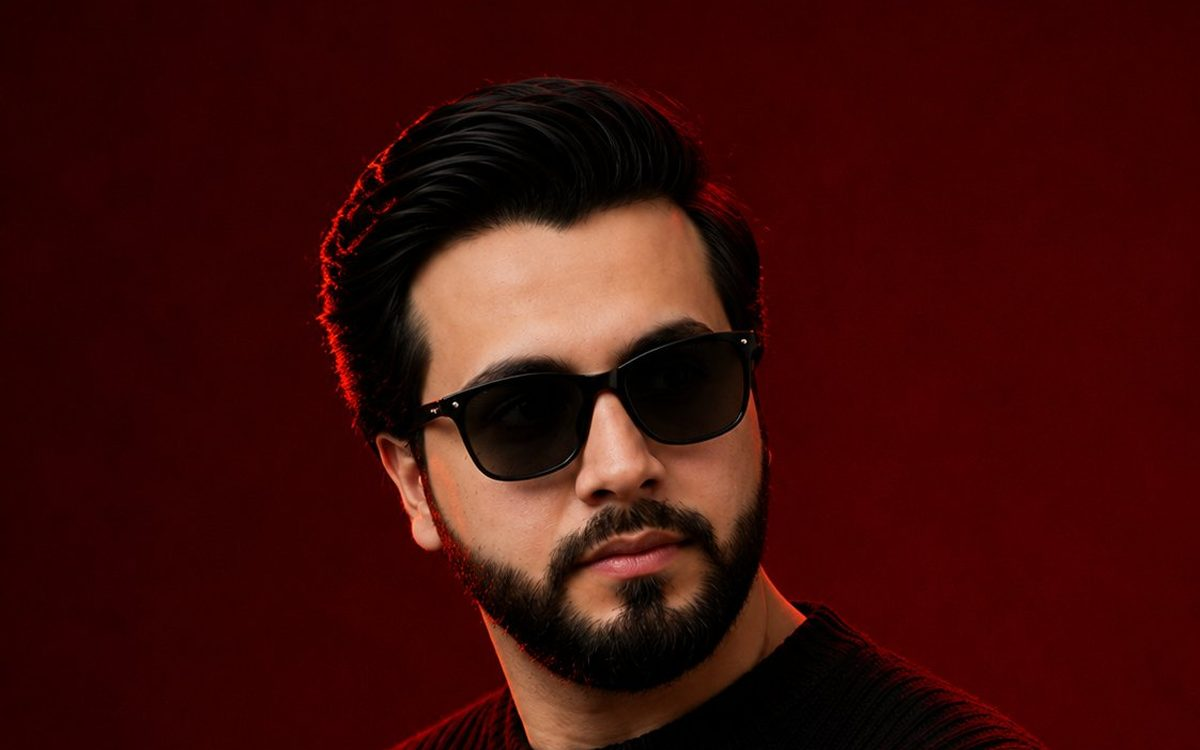
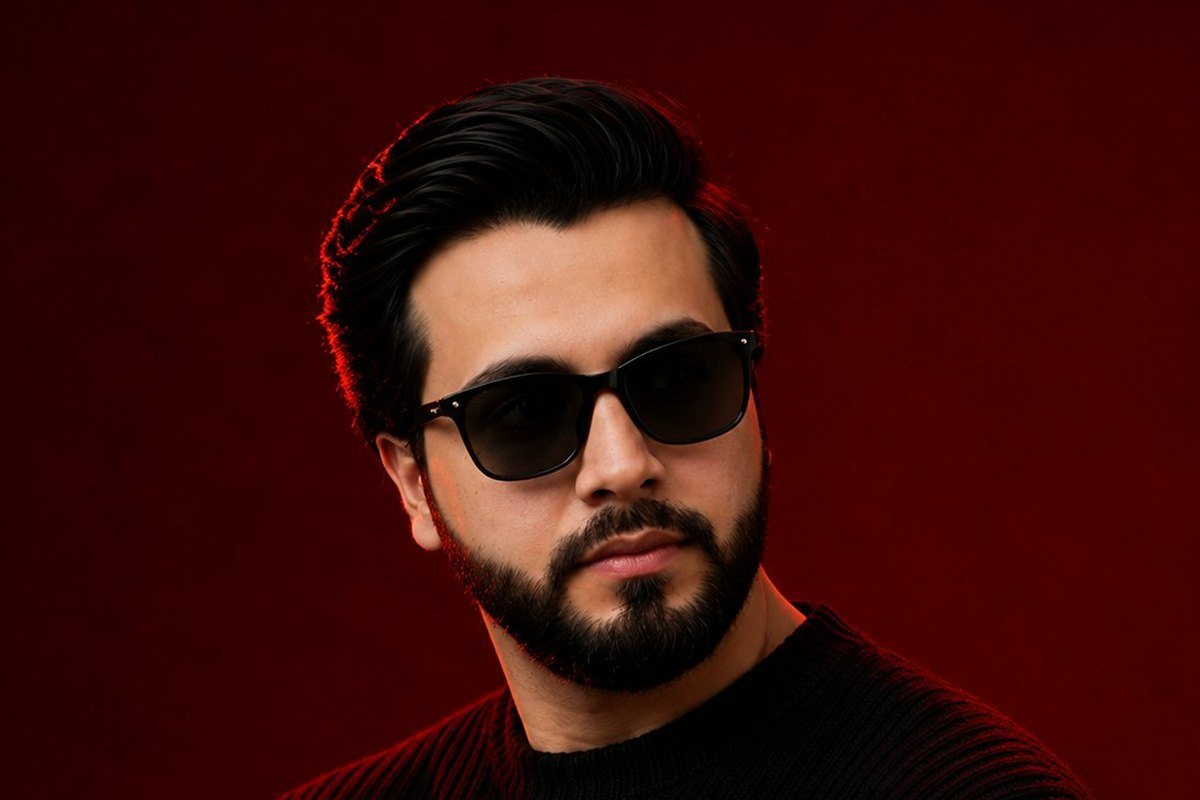
Fix mobile hero, image ratios, proof stats, and sticky header

Changed region(s): [[0.2158, 0.092, 0.8942, 1.0]]

diff --git a/index.html b/index.html
@@ -84,7 +84,7 @@
   <div class="wrap hero-in">
     <div class="hero-text">
       <p class="eyebrow">Entrepreneur</p>
-      <h1 class="hero-name">Hamza<br>Ali Basra</h1>
+      <h1 class="hero-name">Hamza Ali Basra</h1>
       <p class="hero-role">Entrepreneur building digital brands, honest
       content, and ventures that last.</p>
       <div class="hero-ctas">
@@ -98,7 +98,7 @@
     </figure>
   </div>
 </section>
-<section class="proof-band"><div class="wrap proof-in"><div class="stat"><span class="stat-num">29K</span><span class="stat-label">Facebook followers</span></div><div class="stat"><span class="stat-num">3.7K</span><span class="stat-label">CEO LEGACY followers</span></div><div class="stat"><span class="stat-num">&#10003;</span><span class="stat-label">Mr Anonymous · Verified</span></div><div class="stat"><span class="stat-num">5 + 2</span><span class="stat-label">Brands · live websites</span></div></div></section>
+<section class="proof-band"><div class="wrap proof-in"><div class="stat"><span class="stat-num">29K</span><span class="stat-label">Facebook followers</span></div><div class="stat"><span class="stat-num">3.7K</span><span class="stat-label">CEO LEGACY followers</span></div><div class="stat"><span class="stat-num">5 + 2</span><span class="stat-label">Brands · live websites</span></div></div></section>
 <section class="wrap section">
   <div class="snap-in">
     <img class="snap-photo" src="assets/photo-about.jpg" alt="Hamza Ali Basra" width="900" height="1125">
@@ -170,21 +170,21 @@
     </div>
     <div class="grid grid-3">
       <article class="card post-card">
-  <a class="card-img-link" href="insights/self-respect-is-a-daily-decision/"><img class="card-img" src="assets/posts/self-respect.jpg" alt="Self-Respect Is a Daily Decision" width="1200" height="750" loading="lazy"></a>
+  <a class="card-img-link" href="insights/self-respect-is-a-daily-decision/"><img class="card-img" src="assets/posts/self-respect.jpg" alt="Self-Respect Is a Daily Decision" width="1200" height="800" loading="lazy"></a>
   <p class="card-meta"><a class="chip" href="insights/#cat-mindset">Mindset</a>
   <time datetime="2026-10-07">Oct 7, 2026</time></p>
   <h3><a href="insights/self-respect-is-a-daily-decision/">Self-Respect Is a Daily Decision</a></h3>
   <p>Self-respect is not a personality trait. It is a standard you enforce in a hundred small moments, every single day.</p>
   <a class="card-link" href="insights/self-respect-is-a-daily-decision/">Read more &rarr;</a>
 </article><article class="card post-card">
-  <a class="card-img-link" href="insights/the-quiet-advantage-of-a-private-life/"><img class="card-img" src="assets/posts/private-life.jpg" alt="The Quiet Advantage of a Private Life" width="1200" height="750" loading="lazy"></a>
+  <a class="card-img-link" href="insights/the-quiet-advantage-of-a-private-life/"><img class="card-img" src="assets/posts/private-life.jpg" alt="The Quiet Advantage of a Private Life" width="1200" height="800" loading="lazy"></a>
   <p class="card-meta"><a class="chip" href="insights/#cat-mindset">Mindset</a>
   <time datetime="2026-10-07">Oct 7, 2026</time></p>
   <h3><a href="insights/the-quiet-advantage-of-a-private-life/">The Quiet Advantage of a Private Life</a></h3>
   <p>The less people know about your next move, the fewer opinions you have to carry. Privacy is not secrecy — it is strategy.</p>
   <a class="card-link" href="insights/the-quiet-advantage-of-a-private-life/">Read more &rarr;</a>
 </article><article class="card post-card">
-  <a class="card-img-link" href="insights/what-loyalty-really-costs-in-business/"><img class="card-img" src="assets/posts/loyalty.jpg" alt="What Loyalty Really Costs in Business" width="1200" height="750" loading="lazy"></a>
+  <a class="card-img-link" href="insights/what-loyalty-really-costs-in-business/"><img class="card-img" src="assets/posts/loyalty.jpg" alt="What Loyalty Really Costs in Business" width="1200" height="800" loading="lazy"></a>
   <p class="card-meta"><a class="chip" href="insights/#cat-business">Business</a>
   <time datetime="2026-10-07">Oct 7, 2026</time></p>
   <h3><a href="insights/what-loyalty-really-costs-in-business/">What Loyalty Really Costs in Business</a></h3>
@@ -241,7 +241,7 @@
     </nav>
     <nav class="foot-col" aria-label="Ventures">
       <h4>Ventures</h4>
-      <a href="https://www.facebook.com/hamzaalibasra" target="_blank" rel="noopener">Hamza Ali Basra</a><a href="https://www.facebook.com/CEOLegacyOfficial" target="_blank" rel="noopener">CEO LEGACY</a><a href="https://www.facebook.com/MrAnonymousOfficial" target="_blank" rel="noopener">Mr Anonymous</a><a href="https://www.facebook.com/moonalibasra" target="_blank" rel="noopener">Ali Ahmad</a><a href="https://www.facebook.com/Earthfactsofficial" target="_blank" rel="noopener">Earth Facts</a><a href="https://grabaitool.github.io/" target="_blank" rel="noopener">Grab AI Tool</a><a href="https://toolpixi.github.io/" target="_blank" rel="noopener">ToolPixi</a>
+      <a href="https://www.facebook.com/hamzaalibasra" target="_blank" rel="noopener">Hamza Ali Basra</a><a href="https://www.facebook.com/CEOLegacyOfficial" target="_blank" rel="noopener">CEO LEGACY</a><a href="https://grabaitool.github.io/" target="_blank" rel="noopener">Grab AI Tool</a><a href="https://toolpixi.github.io/" target="_blank" rel="noopener">ToolPixi</a>
     </nav>
     <div class="foot-col">
       <h4>Connect</h4>

diff --git a/insights/index.html b/insights/index.html
@@ -80,7 +80,7 @@
 </section>
 <section class="wrap">
   <article class="card lead-card">
-  <a class="card-img-link" href="self-respect-is-a-daily-decision/"><img class="card-img" src="../assets/posts/self-respect.jpg" alt="Self-Respect Is a Daily Decision" width="1200" height="750"></a>
+  <a class="card-img-link" href="self-respect-is-a-daily-decision/"><img class="card-img" src="../assets/posts/self-respect.jpg" alt="Self-Respect Is a Daily Decision" width="1200" height="800"></a>
   <p class="card-meta"><span class="chip chip-gold">Latest</span>
   <a class="chip" href="#cat-mindset">Mindset</a>
   <time datetime="2026-10-07">Oct 7, 2026</time></p>
@@ -93,14 +93,14 @@
   <section class="cat-sec" id="cat-mindset">
   <h2 class="sec-title">Mindset</h2>
   <div class="grid grid-3"><article class="card post-card">
-  <a class="card-img-link" href="self-respect-is-a-daily-decision/"><img class="card-img" src="../assets/posts/self-respect.jpg" alt="Self-Respect Is a Daily Decision" width="1200" height="750" loading="lazy"></a>
+  <a class="card-img-link" href="self-respect-is-a-daily-decision/"><img class="card-img" src="../assets/posts/self-respect.jpg" alt="Self-Respect Is a Daily Decision" width="1200" height="800" loading="lazy"></a>
   <p class="card-meta"><a class="chip" href="#cat-mindset">Mindset</a>
   <time datetime="2026-10-07">Oct 7, 2026</time></p>
   <h3><a href="self-respect-is-a-daily-decision/">Self-Respect Is a Daily Decision</a></h3>
   <p>Self-respect is not a personality trait. It is a standard you enforce in a hundred small moments, every single day.</p>
   <a class="card-link" href="self-respect-is-a-daily-decision/">Read more &rarr;</a>
 </article><article class="card post-card">
-  <a class="card-img-link" href="the-quiet-advantage-of-a-private-life/"><img class="card-img" src="../assets/posts/private-life.jpg" alt="The Quiet Advantage of a Private Life" width="1200" height="750" loading="lazy"></a>
+  <a class="card-img-link" href="the-quiet-advantage-of-a-private-life/"><img class="card-img" src="../assets/posts/private-life.jpg" alt="The Quiet Advantage of a Private Life" width="1200" height="800" loading="lazy"></a>
   <p class="card-meta"><a class="chip" href="#cat-mindset">Mindset</a>
   <time datetime="2026-10-07">Oct 7, 2026</time></p>
   <h3><a href="the-quiet-advantage-of-a-private-life/">The Quiet Advantage of a Private Life</a></h3>
@@ -110,7 +110,7 @@
 </section><section class="cat-sec" id="cat-business">
   <h2 class="sec-title">Business</h2>
   <div class="grid grid-3"><article class="card post-card">
-  <a class="card-img-link" href="what-loyalty-really-costs-in-business/"><img class="card-img" src="../assets/posts/loyalty.jpg" alt="What Loyalty Really Costs in Business" width="1200" height="750" loading="lazy"></a>
+  <a class="card-img-link" href="what-loyalty-really-costs-in-business/"><img class="card-img" src="../assets/posts/loyalty.jpg" alt="What Loyalty Really Costs in Business" width="1200" height="800" loading="lazy"></a>
   <p class="card-meta"><a class="chip" href="#cat-business">Business</a>
   <time datetime="2026-10-07">Oct 7, 2026</time></p>
   <h3><a href="what-loyalty-really-costs-in-business/">What Loyalty Really Costs in Business</a></h3>
@@ -120,7 +120,7 @@
 </section><section class="cat-sec" id="cat-entrepreneurship">
   <h2 class="sec-title">Entrepreneurship</h2>
   <div class="grid grid-3"><article class="card post-card">
-  <a class="card-img-link" href="karma-is-reputation-with-a-long-memory/"><img class="card-img" src="../assets/posts/karma.jpg" alt="Karma Is Just Reputation With a Long Memory" width="1200" height="750" loading="lazy"></a>
+  <a class="card-img-link" href="karma-is-reputation-with-a-long-memory/"><img class="card-img" src="../assets/posts/karma.jpg" alt="Karma Is Just Reputation With a Long Memory" width="1200" height="800" loading="lazy"></a>
   <p class="card-meta"><a class="chip" href="#cat-entrepreneurship">Entrepreneurship</a>
   <time datetime="2026-10-07">Oct 7, 2026</time></p>
   <h3><a href="karma-is-reputation-with-a-long-memory/">Karma Is Just Reputation With a Long Memory</a></h3>
@@ -175,7 +175,7 @@
     </nav>
     <nav class="foot-col" aria-label="Ventures">
       <h4>Ventures</h4>
-      <a href="https://www.facebook.com/hamzaalibasra" target="_blank" rel="noopener">Hamza Ali Basra</a><a href="https://www.facebook.com/CEOLegacyOfficial" target="_blank" rel="noopener">CEO LEGACY</a><a href="https://www.facebook.com/MrAnonymousOfficial" target="_blank" rel="noopener">Mr Anonymous</a><a href="https://www.facebook.com/moonalibasra" target="_blank" rel="noopener">Ali Ahmad</a><a href="https://www.facebook.com/Earthfactsofficial" target="_blank" rel="noopener">Earth Facts</a><a href="https://grabaitool.github.io/" target="_blank" rel="noopener">Grab AI Tool</a><a href="https://toolpixi.github.io/" target="_blank" rel="noopener">ToolPixi</a>
+      <a href="https://www.facebook.com/hamzaalibasra" target="_blank" rel="noopener">Hamza Ali Basra</a><a href="https://www.facebook.com/CEOLegacyOfficial" target="_blank" rel="noopener">CEO LEGACY</a><a href="https://grabaitool.github.io/" target="_blank" rel="noopener">Grab AI Tool</a><a href="https://toolpixi.github.io/" target="_blank" rel="noopener">ToolPixi</a>
     </nav>
     <div class="foot-col">
       <h4>Connect</h4>

diff --git a/insights/self-respect-is-a-daily-decision/index.html b/insights/self-respect-is-a-daily-decision/index.html
@@ -105,7 +105,7 @@
   <time datetime="2026-10-07">Oct 7, 2026</time></p>
   <h1>Self-Respect Is a Daily Decision</h1>
   <p class="post-excerpt">Self-respect is not a personality trait. It is a standard you enforce in a hundred small moments, every single day.</p>
-  <img class="post-feature" src="../../assets/posts/self-respect.jpg" alt="Self-Respect Is a Daily Decision" width="1200" height="750">
+  <img class="post-feature" src="../../assets/posts/self-respect.jpg" alt="Self-Respect Is a Daily Decision" width="1200" height="800">
   <div class="share-row" role="group" aria-label="Share">
   <span class="share-label">Share this insight</span>
   <a class="share-btn" target="_blank" rel="noopener" href="https://twitter.com/intent/tweet?text=Self-Respect%20Is%20a%20Daily%20Decision%20%E2%80%94%20Hamza%20Ali%20Basra&url=https%3A//hamzaalibasra.github.io/insights/self-respect-is-a-daily-decision/">Share on X</a>
@@ -146,21 +146,21 @@
     </div>
     <div class="grid grid-3">
       <article class="card post-card">
-  <a class="card-img-link" href="../the-quiet-advantage-of-a-private-life/"><img class="card-img" src="../../assets/posts/private-life.jpg" alt="The Quiet Advantage of a Private Life" width="1200" height="750" loading="lazy"></a>
+  <a class="card-img-link" href="../the-quiet-advantage-of-a-private-life/"><img class="card-img" src="../../assets/posts/private-life.jpg" alt="The Quiet Advantage of a Private Life" width="1200" height="800" loading="lazy"></a>
   <p class="card-meta"><a class="chip" href="../#cat-mindset">Mindset</a>
   <time datetime="2026-10-07">Oct 7, 2026</time></p>
   <h3><a href="../the-quiet-advantage-of-a-private-life/">The Quiet Advantage of a Private Life</a></h3>
   <p>The less people know about your next move, the fewer opinions you have to carry. Privacy is not secrecy — it is strategy.</p>
   <a class="card-link" href="../the-quiet-advantage-of-a-private-life/">Read more &rarr;</a>
 </article><article class="card post-card">
-  <a class="card-img-link" href="../what-loyalty-really-costs-in-business/"><img class="card-img" src="../../assets/posts/loyalty.jpg" alt="What Loyalty Really Costs in Business" width="1200" height="750" loading="lazy"></a>
+  <a class="card-img-link" href="../what-loyalty-really-costs-in-business/"><img class="card-img" src="../../assets/posts/loyalty.jpg" alt="What Loyalty Really Costs in Business" width="1200" height="800" loading="lazy"></a>
   <p class="card-meta"><a class="chip" href="../#cat-business">Business</a>
   <time datetime="2026-10-07">Oct 7, 2026</time></p>
   <h3><a href="../what-loyalty-really-costs-in-business/">What Loyalty Really Costs in Business</a></h3>
   <p>Loyalty is the most praised and least understood currency in business. Given blindly, it bankrupts you. Given wisely, it builds empires.</p>
   <a class="card-link" href="../what-loyalty-really-costs-in-business/">Read more &rarr;</a>
 </article><article class="card post-card">
-  <a class="card-img-link" href="../karma-is-reputation-with-a-long-memory/"><img class="card-img" src="../../assets/posts/karma.jpg" alt="Karma Is Just Reputation With a Long Memory" width="1200" height="750" loading="lazy"></a>
+  <a class="card-img-link" href="../karma-is-reputation-with-a-long-memory/"><img class="card-img" src="../../assets/posts/karma.jpg" alt="Karma Is Just Reputation With a Long Memory" width="1200" height="800" loading="lazy"></a>
   <p class="card-meta"><a class="chip" href="../#cat-entrepreneurship">Entrepreneurship</a>
   <time datetime="2026-10-07">Oct 7, 2026</time></p>
   <h3><a href="../karma-is-reputation-with-a-long-memory/">Karma Is Just Reputation With a Long Memory</a></h3>
@@ -217,7 +217,7 @@
     </nav>
     <nav class="foot-col" aria-label="Ventures">
       <h4>Ventures</h4>
-      <a href="https://www.facebook.com/hamzaalibasra" target="_blank" rel="noopener">Hamza Ali Basra</a><a href="https://www.facebook.com/CEOLegacyOfficial" target="_blank" rel="noopener">CEO LEGACY</a><a href="https://www.facebook.com/MrAnonymousOfficial" target="_blank" rel="noopener">Mr Anonymous</a><a href="https://www.facebook.com/moonalibasra" target="_blank" rel="noopener">Ali Ahmad</a><a href="https://www.facebook.com/Earthfactsofficial" target="_blank" rel="noopener">Earth Facts</a><a href="https://grabaitool.github.io/" target="_blank" rel="noopener">Grab AI Tool</a><a href="https://toolpixi.github.io/" target="_blank" rel="noopener">ToolPixi</a>
+      <a href="https://www.facebook.com/hamzaalibasra" target="_blank" rel="noopener">Hamza Ali Basra</a><a href="https://www.facebook.com/CEOLegacyOfficial" target="_blank" rel="noopener">CEO LEGACY</a><a href="https://grabaitool.github.io/" target="_blank" rel="noopener">Grab AI Tool</a><a href="https://toolpixi.github.io/" target="_blank" rel="noopener">ToolPixi</a>
     </nav>
     <div class="foot-col">
       <h4>Connect</h4>

diff --git a/insights/karma-is-reputation-with-a-long-memory/index.html b/insights/karma-is-reputation-with-a-long-memory/index.html
@@ -105,7 +105,7 @@
   <time datetime="2026-10-07">Oct 7, 2026</time></p>
   <h1>Karma Is Just Reputation With a Long Memory</h1>
   <p class="post-excerpt">You can call it karma or call it the market remembering. Either way, how you treat people when you don't need them decides what happens when you do.</p>
-  <img class="post-feature" src="../../assets/posts/karma.jpg" alt="Karma Is Just Reputation With a Long Memory" width="1200" height="750">
+  <img class="post-feature" src="../../assets/posts/karma.jpg" alt="Karma Is Just Reputation With a Long Memory" width="1200" height="800">
   <div class="share-row" role="group" aria-label="Share">
   <span class="share-label">Share this insight</span>
   <a class="share-btn" target="_blank" rel="noopener" href="https://twitter.com/intent/tweet?text=Karma%20Is%20Just%20Reputation%20With%20a%20Long%20Memory%20%E2%80%94%20Hamza%20Ali%20Basra&url=https%3A//hamzaalibasra.github.io/insights/karma-is-reputation-with-a-long-memory/">Share on X</a>
@@ -146,21 +146,21 @@
     </div>
     <div class="grid grid-3">
       <article class="card post-card">
-  <a class="card-img-link" href="../self-respect-is-a-daily-decision/"><img class="card-img" src="../../assets/posts/self-respect.jpg" alt="Self-Respect Is a Daily Decision" width="1200" height="750" loading="lazy"></a>
+  <a class="card-img-link" href="../self-respect-is-a-daily-decision/"><img class="card-img" src="../../assets/posts/self-respect.jpg" alt="Self-Respect Is a Daily Decision" width="1200" height="800" loading="lazy"></a>
   <p class="card-meta"><a class="chip" href="../#cat-mindset">Mindset</a>
   <time datetime="2026-10-07">Oct 7, 2026</time></p>
   <h3><a href="../self-respect-is-a-daily-decision/">Self-Respect Is a Daily Decision</a></h3>
   <p>Self-respect is not a personality trait. It is a standard you enforce in a hundred small moments, every single day.</p>
   <a class="card-link" href="../self-respect-is-a-daily-decision/">Read more &rarr;</a>
 </article><article class="card post-card">
-  <a class="card-img-link" href="../the-quiet-advantage-of-a-private-life/"><img class="card-img" src="../../assets/posts/private-life.jpg" alt="The Quiet Advantage of a Private Life" width="1200" height="750" loading="lazy"></a>
+  <a class="card-img-link" href="../the-quiet-advantage-of-a-private-life/"><img class="card-img" src="../../assets/posts/private-life.jpg" alt="The Quiet Advantage of a Private Life" width="1200" height="800" loading="lazy"></a>
   <p class="card-meta"><a class="chip" href="../#cat-mindset">Mindset</a>
   <time datetime="2026-10-07">Oct 7, 2026</time></p>
   <h3><a href="../the-quiet-advantage-of-a-private-life/">The Quiet Advantage of a Private Life</a></h3>
   <p>The less people know about your next move, the fewer opinions you have to carry. Privacy is not secrecy — it is strategy.</p>
   <a class="card-link" href="../the-quiet-advantage-of-a-private-life/">Read more &rarr;</a>
 </article><article class="card post-card">
-  <a class="card-img-link" href="../what-loyalty-really-costs-in-business/"><img class="card-img" src="../../assets/posts/loyalty.jpg" alt="What Loyalty Really Costs in Business" width="1200" height="750" loading="lazy"></a>
+  <a class="card-img-link" href="../what-loyalty-really-costs-in-business/"><img class="card-img" src="../../assets/posts/loyalty.jpg" alt="What Loyalty Really Costs in Business" width="1200" height="800" loading="lazy"></a>
   <p class="card-meta"><a class="chip" href="../#cat-business">Business</a>
   <time datetime="2026-10-07">Oct 7, 2026</time></p>
   <h3><a href="../what-loyalty-really-costs-in-business/">What Loyalty Really Costs in Business</a></h3>
@@ -217,7 +217,7 @@
     </nav>
     <nav class="foot-col" aria-label="Ventures">
       <h4>Ventures</h4>
-      <a href="https://www.facebook.com/hamzaalibasra" target="_blank" rel="noopener">Hamza Ali Basra</a><a href="https://www.facebook.com/CEOLegacyOfficial" target="_blank" rel="noopener">CEO LEGACY</a><a href="https://www.facebook.com/MrAnonymousOfficial" target="_blank" rel="noopener">Mr Anonymous</a><a href="https://www.facebook.com/moonalibasra" target="_blank" rel="noopener">Ali Ahmad</a><a href="https://www.facebook.com/Earthfactsofficial" target="_blank" rel="noopener">Earth Facts</a><a href="https://grabaitool.github.io/" target="_blank" rel="noopener">Grab AI Tool</a><a href="https://toolpixi.github.io/" target="_blank" rel="noopener">ToolPixi</a>
+      <a href="https://www.facebook.com/hamzaalibasra" target="_blank" rel="noopener">Hamza Ali Basra</a><a href="https://www.facebook.com/CEOLegacyOfficial" target="_blank" rel="noopener">CEO LEGACY</a><a href="https://grabaitool.github.io/" target="_blank" rel="noopener">Grab AI Tool</a><a href="https://toolpixi.github.io/" target="_blank" rel="noopener">ToolPixi</a>
     </nav>
     <div class="foot-col">
       <h4>Connect</h4>

diff --git a/insights/the-quiet-advantage-of-a-private-life/index.html b/insights/the-quiet-advantage-of-a-private-life/index.html
@@ -105,7 +105,7 @@
   <time datetime="2026-10-07">Oct 7, 2026</time></p>
   <h1>The Quiet Advantage of a Private Life</h1>
   <p class="post-excerpt">The less people know about your next move, the fewer opinions you have to carry. Privacy is not secrecy — it is strategy.</p>
-  <img class="post-feature" src="../../assets/posts/private-life.jpg" alt="The Quiet Advantage of a Private Life" width="1200" height="750">
+  <img class="post-feature" src="../../assets/posts/private-life.jpg" alt="The Quiet Advantage of a Private Life" width="1200" height="800">
   <div class="share-row" role="group" aria-label="Share">
   <span class="share-label">Share this insight</span>
   <a class="share-btn" target="_blank" rel="noopener" href="https://twitter.com/intent/tweet?text=The%20Quiet%20Advantage%20of%20a%20Private%20Life%20%E2%80%94%20Hamza%20Ali%20Basra&url=https%3A//hamzaalibasra.github.io/insights/the-quiet-advantage-of-a-private-life/">Share on X</a>
@@ -146,21 +146,21 @@
     </div>
     <div class="grid grid-3">
       <article class="card post-card">
-  <a class="card-img-link" href="../self-respect-is-a-daily-decision/"><img class="card-img" src="../../assets/posts/self-respect.jpg" alt="Self-Respect Is a Daily Decision" width="1200" height="750" loading="lazy"></a>
+  <a class="card-img-link" href="../self-respect-is-a-daily-decision/"><img class="card-img" src="../../assets/posts/self-respect.jpg" alt="Self-Respect Is a Daily Decision" width="1200" height="800" loading="lazy"></a>
   <p class="card-meta"><a class="chip" href="../#cat-mindset">Mindset</a>
   <time datetime="2026-10-07">Oct 7, 2026</time></p>
   <h3><a href="../self-respect-is-a-daily-decision/">Self-Respect Is a Daily Decision</a></h3>
   <p>Self-respect is not a personality trait. It is a standard you enforce in a hundred small moments, every single day.</p>
   <a class="card-link" href="../self-respect-is-a-daily-decision/">Read more &rarr;</a>
 </article><article class="card post-card">
-  <a class="card-img-link" href="../what-loyalty-really-costs-in-business/"><img class="card-img" src="../../assets/posts/loyalty.jpg" alt="What Loyalty Really Costs in Business" width="1200" height="750" loading="lazy"></a>
+  <a class="card-img-link" href="../what-loyalty-really-costs-in-business/"><img class="card-img" src="../../assets/posts/loyalty.jpg" alt="What Loyalty Really Costs in Business" width="1200" height="800" loading="lazy"></a>
   <p class="card-meta"><a class="chip" href="../#cat-business">Business</a>
   <time datetime="2026-10-07">Oct 7, 2026</time></p>
   <h3><a href="../what-loyalty-really-costs-in-business/">What Loyalty Really Costs in Business</a></h3>
   <p>Loyalty is the most praised and least understood currency in business. Given blindly, it bankrupts you. Given wisely, it builds empires.</p>
   <a class="card-link" href="../what-loyalty-really-costs-in-business/">Read more &rarr;</a>
 </article><article class="card post-card">
-  <a class="card-img-link" href="../karma-is-reputation-with-a-long-memory/"><img class="card-img" src="../../assets/posts/karma.jpg" alt="Karma Is Just Reputation With a Long Memory" width="1200" height="750" loading="lazy"></a>
+  <a class="card-img-link" href="../karma-is-reputation-with-a-long-memory/"><img class="card-img" src="../../assets/posts/karma.jpg" alt="Karma Is Just Reputation With a Long Memory" width="1200" height="800" loading="lazy"></a>
   <p class="card-meta"><a class="chip" href="../#cat-entrepreneurship">Entrepreneurship</a>
   <time datetime="2026-10-07">Oct 7, 2026</time></p>
   <h3><a href="../karma-is-reputation-with-a-long-memory/">Karma Is Just Reputation With a Long Memory</a></h3>
@@ -217,7 +217,7 @@
     </nav>
     <nav class="foot-col" aria-label="Ventures">
       <h4>Ventures</h4>
-      <a href="https://www.facebook.com/hamzaalibasra" target="_blank" rel="noopener">Hamza Ali Basra</a><a href="https://www.facebook.com/CEOLegacyOfficial" target="_blank" rel="noopener">CEO LEGACY</a><a href="https://www.facebook.com/MrAnonymousOfficial" target="_blank" rel="noopener">Mr Anonymous</a><a href="https://www.facebook.com/moonalibasra" target="_blank" rel="noopener">Ali Ahmad</a><a href="https://www.facebook.com/Earthfactsofficial" target="_blank" rel="noopener">Earth Facts</a><a href="https://grabaitool.github.io/" target="_blank" rel="noopener">Grab AI Tool</a><a href="https://toolpixi.github.io/" target="_blank" rel="noopener">ToolPixi</a>
+      <a href="https://www.facebook.com/hamzaalibasra" target="_blank" rel="noopener">Hamza Ali Basra</a><a href="https://www.facebook.com/CEOLegacyOfficial" target="_blank" rel="noopener">CEO LEGACY</a><a href="https://grabaitool.github.io/" target="_blank" rel="noopener">Grab AI Tool</a><a href="https://toolpixi.github.io/" target="_blank" rel="noopener">ToolPixi</a>
     </nav>
     <div class="foot-col">
       <h4>Connect</h4>

diff --git a/insights/what-loyalty-really-costs-in-business/index.html b/insights/what-loyalty-really-costs-in-business/index.html
@@ -105,7 +105,7 @@
   <time datetime="2026-10-07">Oct 7, 2026</time></p>
   <h1>What Loyalty Really Costs in Business</h1>
   <p class="post-excerpt">Loyalty is the most praised and least understood currency in business. Given blindly, it bankrupts you. Given wisely, it builds empires.</p>
-  <img class="post-feature" src="../../assets/posts/loyalty.jpg" alt="What Loyalty Really Costs in Business" width="1200" height="750">
+  <img class="post-feature" src="../../assets/posts/loyalty.jpg" alt="What Loyalty Really Costs in Business" width="1200" height="800">
   <div class="share-row" role="group" aria-label="Share">
   <span class="share-label">Share this insight</span>
   <a class="share-btn" target="_blank" rel="noopener" href="https://twitter.com/intent/tweet?text=What%20Loyalty%20Really%20Costs%20in%20Business%20%E2%80%94%20Hamza%20Ali%20Basra&url=https%3A//hamzaalibasra.github.io/insights/what-loyalty-really-costs-in-business/">Share on X</a>
@@ -146,21 +146,21 @@
     </div>
     <div class="grid grid-3">
       <article class="card post-card">
-  <a class="card-img-link" href="../self-respect-is-a-daily-decision/"><img class="card-img" src="../../assets/posts/self-respect.jpg" alt="Self-Respect Is a Daily Decision" width="1200" height="750" loading="lazy"></a>
+  <a class="card-img-link" href="../self-respect-is-a-daily-decision/"><img class="card-img" src="../../assets/posts/self-respect.jpg" alt="Self-Respect Is a Daily Decision" width="1200" height="800" loading="lazy"></a>
   <p class="card-meta"><a class="chip" href="../#cat-mindset">Mindset</a>
   <time datetime="2026-10-07">Oct 7, 2026</time></p>
   <h3><a href="../self-respect-is-a-daily-decision/">Self-Respect Is a Daily Decision</a></h3>
   <p>Self-respect is not a personality trait. It is a standard you enforce in a hundred small moments, every single day.</p>
   <a class="card-link" href="../self-respect-is-a-daily-decision/">Read more &rarr;</a>
 </article><article class="card post-card">
-  <a class="card-img-link" href="../the-quiet-advantage-of-a-private-life/"><img class="card-img" src="../../assets/posts/private-life.jpg" alt="The Quiet Advantage of a Private Life" width="1200" height="750" loading="lazy"></a>
+  <a class="card-img-link" href="../the-quiet-advantage-of-a-private-life/"><img class="card-img" src="../../assets/posts/private-life.jpg" alt="The Quiet Advantage of a Private Life" width="1200" height="800" loading="lazy"></a>
   <p class="card-meta"><a class="chip" href="../#cat-mindset">Mindset</a>
   <time datetime="2026-10-07">Oct 7, 2026</time></p>
   <h3><a href="../the-quiet-advantage-of-a-private-life/">The Quiet Advantage of a Private Life</a></h3>
   <p>The less people know about your next move, the fewer opinions you have to carry. Privacy is not secrecy — it is strategy.</p>
   <a class="card-link" href="../the-quiet-advantage-of-a-private-life/">Read more &rarr;</a>
 </article><article class="card post-card">
-  <a class="card-img-link" href="../karma-is-reputation-with-a-long-memory/"><img class="card-img" src="../../assets/posts/karma.jpg" alt="Karma Is Just Reputation With a Long Memory" width="1200" height="750" loading="lazy"></a>
+  <a class="card-img-link" href="../karma-is-reputation-with-a-long-memory/"><img class="card-img" src="../../assets/posts/karma.jpg" alt="Karma Is Just Reputation With a Long Memory" width="1200" height="800" loading="lazy"></a>
   <p class="card-meta"><a class="chip" href="../#cat-entrepreneurship">Entrepreneurship</a>
   <time datetime="2026-10-07">Oct 7, 2026</time></p>
   <h3><a href="../karma-is-reputation-with-a-long-memory/">Karma Is Just Reputation With a Long Memory</a></h3>
@@ -217,7 +217,7 @@
     </nav>
     <nav class="foot-col" aria-label="Ventures">
       <h4>Ventures</h4>
-      <a href="https://www.facebook.com/hamzaalibasra" target="_blank" rel="noopener">Hamza Ali Basra</a><a href="https://www.facebook.com/CEOLegacyOfficial" target="_blank" rel="noopener">CEO LEGACY</a><a href="https://www.facebook.com/MrAnonymousOfficial" target="_blank" rel="noopener">Mr Anonymous</a><a href="https://www.facebook.com/moonalibasra" target="_blank" rel="noopener">Ali Ahmad</a><a href="https://www.facebook.com/Earthfactsofficial" target="_blank" rel="noopener">Earth Facts</a><a href="https://grabaitool.github.io/" target="_blank" rel="noopener">Grab AI Tool</a><a href="https://toolpixi.github.io/" target="_blank" rel="noopener">ToolPixi</a>
+      <a href="https://www.facebook.com/hamzaalibasra" target="_blank" rel="noopener">Hamza Ali Basra</a><a href="https://www.facebook.com/CEOLegacyOfficial" target="_blank" rel="noopener">CEO LEGACY</a><a href="https://grabaitool.github.io/" target="_blank" rel="noopener">Grab AI Tool</a><a href="https://toolpixi.github.io/" target="_blank" rel="noopener">ToolPixi</a>
     </nav>
     <div class="foot-col">
       <h4>Connect</h4>

diff --git a/assets/css/style.css b/assets/css/style.css
@@ -42,7 +42,7 @@ img{max-width:100%}
 .fine-print{color:#9aa0ab;font-size:13px;margin-top:10px}
 
 /* ---------- top: slim gold strip + clean white header ---------- */
-.topbar{position:fixed;top:0;left:0;right:0;z-index:100}
+.topbar{position:fixed;top:0;left:0;right:0;z-index:1000;background:#fff;isolation:isolate}
 .announce{background:linear-gradient(90deg,var(--gold),var(--gold-soft),var(--gold))}
 .announce-in{
   display:flex;align-items:center;gap:12px;justify-content:center;
@@ -58,9 +58,10 @@ img{max-width:100%}
 .announce-title{overflow:hidden;text-overflow:ellipsis}
 .announce-arrow{flex:none;font-weight:700}
 .site-header{
-  position:relative;
-  background:rgba(255,255,255,.97);
+  position:relative;z-index:2;
+  background:#fff;
   border-bottom:1px solid var(--line);
+  box-shadow:0 8px 26px rgba(90,72,20,.10);
 }
 .head-in{display:flex;align-items:center;justify-content:space-between;min-height:68px;gap:18px}
 .brand{display:flex;align-items:center;color:var(--ink);flex:none}
@@ -95,7 +96,8 @@ img{max-width:100%}
 .hero-text{max-width:640px}
 .hero-name{
   font-family:var(--display);font-weight:700;text-transform:uppercase;
-  font-size:clamp(54px,9vw,108px);line-height:.98;letter-spacing:.5px;color:#1c1f26;
+  font-size:clamp(29px,6.2vw,72px);line-height:1.02;letter-spacing:.5px;color:#1c1f26;
+  white-space:nowrap;max-width:100%;
 }
 .hero-role{
   font-size:clamp(19px,2.4vw,25px);font-weight:600;color:var(--ink-soft);
@@ -132,10 +134,10 @@ img{max-width:100%}
 
 /* card + post images (image first, text below) */
 .card-img-link{display:block;margin:-26px -26px 20px;border-radius:var(--radius) var(--radius) 0 0;overflow:hidden}
-.card-img{width:100%;aspect-ratio:16/10;object-fit:cover;display:block}
+.card-img{width:100%;aspect-ratio:3/2;max-height:420px;object-fit:cover;display:block}
 .lead-card .card-img-link{margin:-32px -32px 22px}
 .post-feature{
-  width:100%;aspect-ratio:16/10;object-fit:cover;display:block;
+  width:100%;aspect-ratio:3/2;max-height:520px;object-fit:cover;display:block;
   border-radius:18px;border:1.5px solid var(--gold);
   box-shadow:0 20px 42px rgba(90,72,20,.16);margin:4px 0 20px;
 }
@@ -159,7 +161,7 @@ img{max-width:100%}
 /* ---------- slim proof strip ---------- */
 .proof-band{background:#fff;border-bottom:1px solid var(--line-soft)}
 .proof-in{
-  display:grid;grid-template-columns:repeat(4,1fr);gap:18px;
+  display:grid;grid-template-columns:repeat(3,minmax(0,1fr));gap:18px;
   padding-top:26px;padding-bottom:26px;text-align:center;
 }
 .stat{display:flex;flex-direction:column;gap:4px}
@@ -404,7 +406,9 @@ time{color:var(--muted);font-size:13.5px}
   .hero-role{margin-left:auto;margin-right:auto}
   .hero-ctas,.hero-text .socials{justify-content:center}
   .hero-photo-card{max-width:320px}
-  .proof-in{grid-template-columns:repeat(2,1fr);row-gap:22px}
+  .hero-photo-card img{max-height:78vh}
+  .proof-in{grid-template-columns:repeat(3,minmax(0,1fr));gap:10px;row-gap:10px}
+  .proof-in .stat-label{font-size:10.5px;letter-spacing:.7px;line-height:1.35}
   .section{padding:46px 24px}
   .lead-card{padding:24px}
   .foot-grid{grid-template-columns:1fr 1fr}

diff --git a/about.html b/about.html
@@ -93,7 +93,7 @@
     <div class="follow-row"><a class="follow-btn" href="https://www.facebook.com/hamzaalibasra" target="_blank" rel="noopener">Follow on Facebook</a><a class="follow-btn" href="https://www.instagram.com/hamzaalibasra" target="_blank" rel="noopener">Follow on Instagram</a><a class="follow-btn" href="https://x.com/hamzaalibasra" target="_blank" rel="noopener">Follow on X</a><a class="follow-btn" href="https://www.tiktok.com/@hamzaalibasra" target="_blank" rel="noopener">Follow on TikTok</a></div>
   </div>
 </section>
-<section class="proof-band"><div class="wrap proof-in"><div class="stat"><span class="stat-num">29K</span><span class="stat-label">Facebook followers</span></div><div class="stat"><span class="stat-num">3.7K</span><span class="stat-label">CEO LEGACY followers</span></div><div class="stat"><span class="stat-num">&#10003;</span><span class="stat-label">Mr Anonymous · Verified</span></div><div class="stat"><span class="stat-num">5 + 2</span><span class="stat-label">Brands · live websites</span></div></div></section>
+<section class="proof-band"><div class="wrap proof-in"><div class="stat"><span class="stat-num">29K</span><span class="stat-label">Facebook followers</span></div><div class="stat"><span class="stat-num">3.7K</span><span class="stat-label">CEO LEGACY followers</span></div><div class="stat"><span class="stat-num">5 + 2</span><span class="stat-label">Brands · live websites</span></div></div></section>
 <section class="wrap section">
   <div class="sec-head">
     <p class="eyebrow">Gallery</p>
@@ -152,7 +152,7 @@
     </nav>
     <nav class="foot-col" aria-label="Ventures">
       <h4>Ventures</h4>
-      <a href="https://www.facebook.com/hamzaalibasra" target="_blank" rel="noopener">Hamza Ali Basra</a><a href="https://www.facebook.com/CEOLegacyOfficial" target="_blank" rel="noopener">CEO LEGACY</a><a href="https://www.facebook.com/MrAnonymousOfficial" target="_blank" rel="noopener">Mr Anonymous</a><a href="https://www.facebook.com/moonalibasra" target="_blank" rel="noopener">Ali Ahmad</a><a href="https://www.facebook.com/Earthfactsofficial" target="_blank" rel="noopener">Earth Facts</a><a href="https://grabaitool.github.io/" target="_blank" rel="noopener">Grab AI Tool</a><a href="https://toolpixi.github.io/" target="_blank" rel="noopener">ToolPixi</a>
+      <a href="https://www.facebook.com/hamzaalibasra" target="_blank" rel="noopener">Hamza Ali Basra</a><a href="https://www.facebook.com/CEOLegacyOfficial" target="_blank" rel="noopener">CEO LEGACY</a><a href="https://grabaitool.github.io/" target="_blank" rel="noopener">Grab AI Tool</a><a href="https://toolpixi.github.io/" target="_blank" rel="noopener">ToolPixi</a>
     </nav>
     <div class="foot-col">
       <h4>Connect</h4>

diff --git a/contact.html b/contact.html
@@ -125,7 +125,7 @@
     </nav>
     <nav class="foot-col" aria-label="Ventures">
       <h4>Ventures</h4>
-      <a href="https://www.facebook.com/hamzaalibasra" target="_blank" rel="noopener">Hamza Ali Basra</a><a href="https://www.facebook.com/CEOLegacyOfficial" target="_blank" rel="noopener">CEO LEGACY</a><a href="https://www.facebook.com/MrAnonymousOfficial" target="_blank" rel="noopener">Mr Anonymous</a><a href="https://www.facebook.com/moonalibasra" target="_blank" rel="noopener">Ali Ahmad</a><a href="https://www.facebook.com/Earthfactsofficial" target="_blank" rel="noopener">Earth Facts</a><a href="https://grabaitool.github.io/" target="_blank" rel="noopener">Grab AI Tool</a><a href="https://toolpixi.github.io/" target="_blank" rel="noopener">ToolPixi</a>
+      <a href="https://www.facebook.com/hamzaalibasra" target="_blank" rel="noopener">Hamza Ali Basra</a><a href="https://www.facebook.com/CEOLegacyOfficial" target="_blank" rel="noopener">CEO LEGACY</a><a href="https://grabaitool.github.io/" target="_blank" rel="noopener">Grab AI Tool</a><a href="https://toolpixi.github.io/" target="_blank" rel="noopener">ToolPixi</a>
     </nav>
     <div class="foot-col">
       <h4>Connect</h4>

diff --git a/ventures.html b/ventures.html
@@ -137,7 +137,7 @@
     </nav>
     <nav class="foot-col" aria-label="Ventures">
       <h4>Ventures</h4>
-      <a href="https://www.facebook.com/hamzaalibasra" target="_blank" rel="noopener">Hamza Ali Basra</a><a href="https://www.facebook.com/CEOLegacyOfficial" target="_blank" rel="noopener">CEO LEGACY</a><a href="https://www.facebook.com/MrAnonymousOfficial" target="_blank" rel="noopener">Mr Anonymous</a><a href="https://www.facebook.com/moonalibasra" target="_blank" rel="noopener">Ali Ahmad</a><a href="https://www.facebook.com/Earthfactsofficial" target="_blank" rel="noopener">Earth Facts</a><a href="https://grabaitool.github.io/" target="_blank" rel="noopener">Grab AI Tool</a><a href="https://toolpixi.github.io/" target="_blank" rel="noopener">ToolPixi</a>
+      <a href="https://www.facebook.com/hamzaalibasra" target="_blank" rel="noopener">Hamza Ali Basra</a><a href="https://www.facebook.com/CEOLegacyOfficial" target="_blank" rel="noopener">CEO LEGACY</a><a href="https://grabaitool.github.io/" target="_blank" rel="noopener">Grab AI Tool</a><a href="https://toolpixi.github.io/" target="_blank" rel="noopener">ToolPixi</a>
     </nav>
     <div class="foot-col">
       <h4>Connect</h4>
